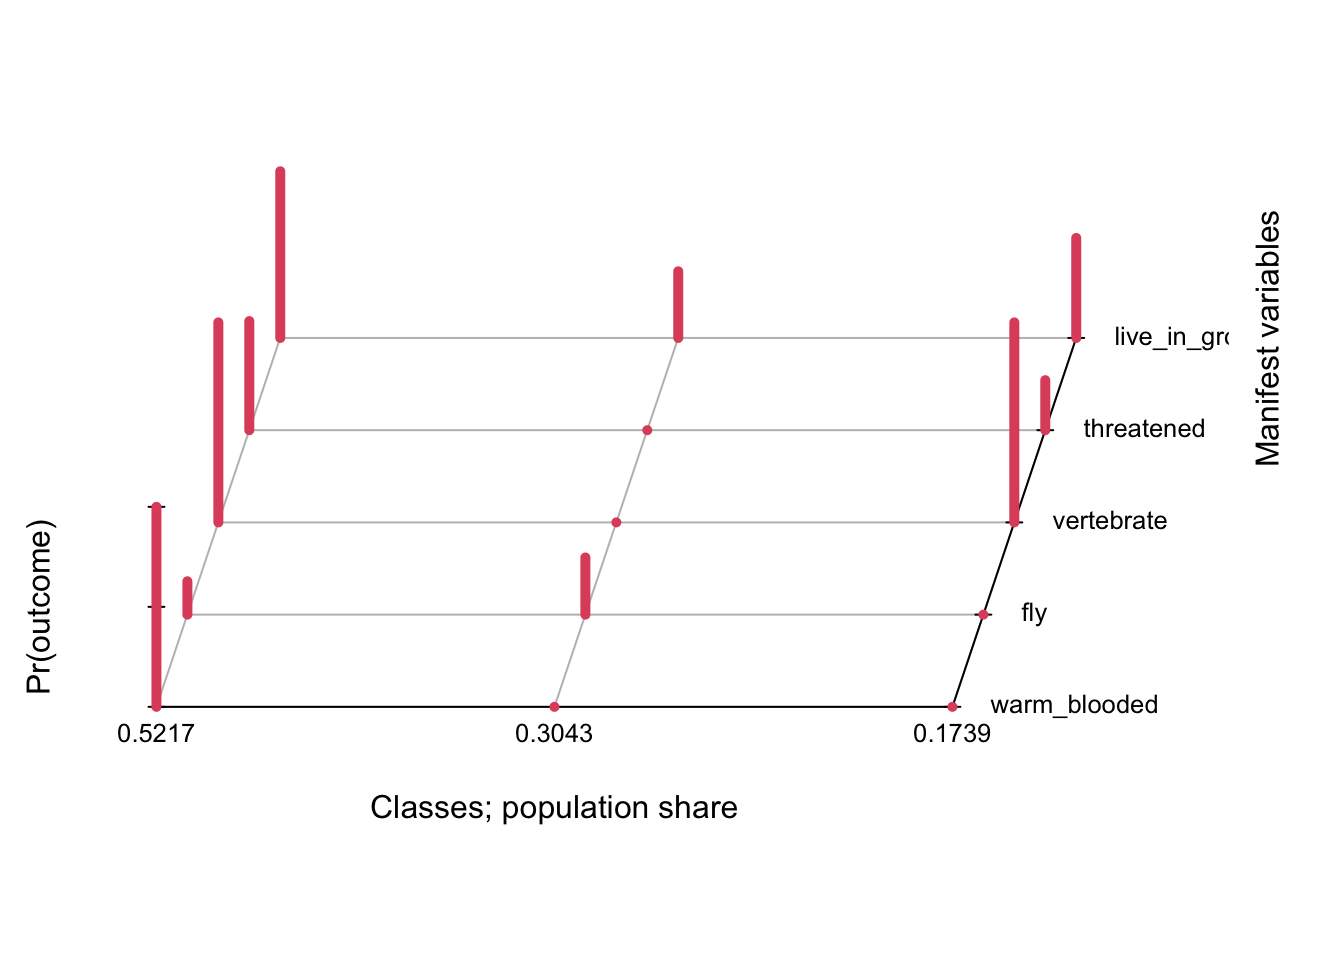
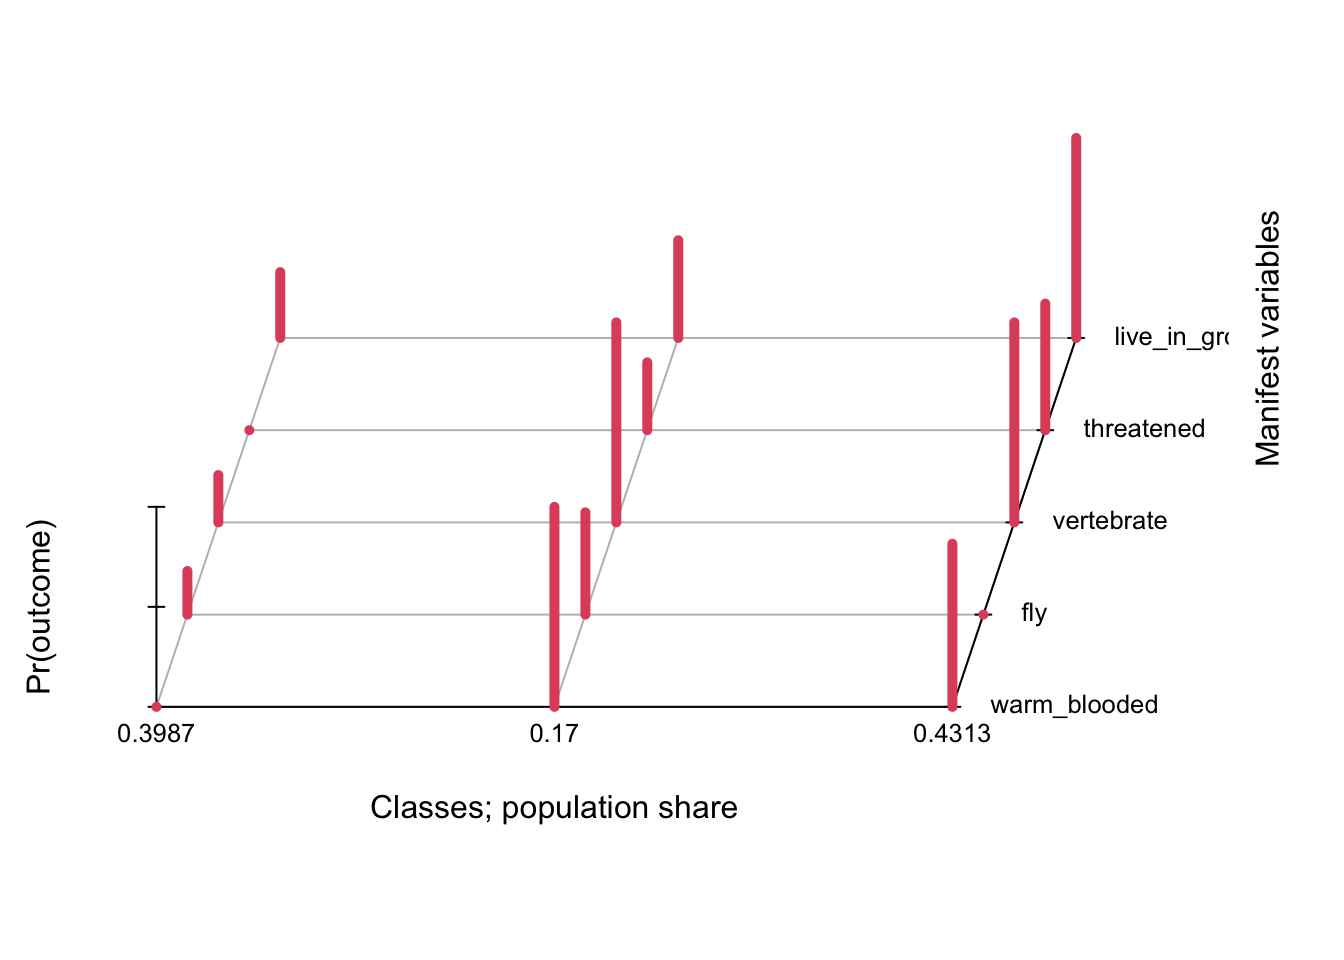
added ideas

diff --git a/docs/app-spielecke.html b/docs/app-spielecke.html
@@ -657,8 +657,7 @@ div.csl-indent {
         <nav id="TOC" role="doc-toc" class="toc-active"><h2 id="toc-title">Inhaltsverzeichnis</h2>
    
   <ul>
-<li><a href="#discrete-time-survival-analysis-in-r" id="toc-discrete-time-survival-analysis-in-r" class="nav-link active" data-scroll-target="#discrete-time-survival-analysis-in-r">Discrete-Time Survival Analysis in R</a></li>
-  <li><a href="#latent-class-analysis-using-r" id="toc-latent-class-analysis-using-r" class="nav-link" data-scroll-target="#latent-class-analysis-using-r">Latent Class Analysis Using R</a></li>
+<li><a href="#latent-class-analysis-using-r" id="toc-latent-class-analysis-using-r" class="nav-link active" data-scroll-target="#latent-class-analysis-using-r">Latent Class Analysis Using R</a></li>
   <li><a href="#structural-equation-modeling" id="toc-structural-equation-modeling" class="nav-link" data-scroll-target="#structural-equation-modeling">Structural Equation Modeling</a></li>
   <li><a href="#zitate" id="toc-zitate" class="nav-link" data-scroll-target="#zitate">Zitate</a></li>
   <li><a href="#links" id="toc-links" class="nav-link" data-scroll-target="#links">Links</a></li>
@@ -681,7 +680,7 @@ div.csl-indent {
   </div>
   
 
-</header><p><em>Version vom August 28, 2023 um 18:49:52</em></p>
+</header><p><em>Version vom August 28, 2023 um 20:49:56</em></p>
 <blockquote class="blockquote">
 <p><em>“Denn, um es endlich auf einmal herauszusagen, der Mensch spielt nur, wo er in voller Bedeutung des Worts Mensch ist, und er ist nur da ganz Mensch, wo er spielt.” — Friedrich Schiller</em></p>
 </blockquote>
@@ -692,12 +691,7 @@ div.csl-indent {
 </figure>
 </div>
 <hr>
-<section id="discrete-time-survival-analysis-in-r" class="level3 unnumbered"><h3 class="unnumbered anchored" data-anchor-id="discrete-time-survival-analysis-in-r">Discrete-Time Survival Analysis in R</h3>
-<p><a href="https://rpubs.com/corey_sparks/63112">Event History Analysis - Example 6 - Discrete Time Hazard Model</a></p>
-<p><span class="citation" data-cites="suresh2022survival">Suresh, Severn, und Ghosh (<a href="#ref-suresh2022survival" role="doc-biblioref">2022</a>)</span></p>
-<p><a href="https://bmcmedresmethodol.biomedcentral.com/articles/10.1186/s12874-022-01679-6">Survival prediction models: an introduction to discrete-time modeling</a></p>
-<p><a href="https://www.rensvandeschoot.com/tutorials/discrete-time-survival/">Intro to Discrete-Time Survival Analysis in R</a></p>
-</section><section id="latent-class-analysis-using-r" class="level3 unnumbered"><h3 class="unnumbered anchored" data-anchor-id="latent-class-analysis-using-r">Latent Class Analysis Using R</h3>
+<section id="latent-class-analysis-using-r" class="level3 unnumbered"><h3 class="unnumbered anchored" data-anchor-id="latent-class-analysis-using-r">Latent Class Analysis Using R</h3>
 <p>Wie immer gibt es eine Reihe von Tutorien auf denen dieser Abschnitt aufbaut. Zum einen wirf einfach mal einen Blick in das Tutorium <a href="https://pop.princeton.edu/events/2020/latent-class-analysis-using-r">Latent Class Analysis Using R</a>. Eine leider etwas veraltete Übersicht über mögliche R Pakete liefert <a href="https://maksimrudnev.com/2016/12/28/latent-class-analysis-in-r/">Ways to do Latent Class Analysis in R</a>. Ich habe da immer mal quer geschaut und mich dann für die Pakete hier entschieden. Es gibt sicherlich noch andere Möglichkeiten eine <em>latent class analysis</em> zu rechnen.</p>
 <p>Wenn du mehr über <em>latent class analysis</em> erfahren möchtest, dann kann ich dir nur das <a href="https://www.john-uebersax.com/stat/faq.htm">LCA Frequently Asked Questions (FAQ)</a> empfehlen. Das FAQ ist sehr umfangreich und beschäftigt sich mit allen wichtigen Punkten. Wir wollen uns ja mit dem R Paket <code>poLCA</code> beschäftigen. Hier gibt es zwei Tutorien. Einmal gibt es das Tutorium <a href="https://statistics.ohlsen-web.de/latent-class-analysis-polca/">Example for a latent class analysis with the poLCA-package in R</a> und das Tutroium <a href="https://rpubs.com/eogawac/poLCA">Latent Class Analysis</a>. Und natürlich die Litertur von <span class="citation" data-cites="linzer2011polca">Linzer und Lewis (<a href="#ref-linzer2011polca" role="doc-biblioref">2011</a>)</span> mit der entsprechenden Veröffentlichung <a href="https://www.sscnet.ucla.edu/polisci/faculty/lewis/pdf/poLCA-JSS-final.pdf">poLCA: An R Package for Polytomous Variable Latent Class Analysis</a></p>
 <div class="cell">
@@ -728,40 +722,40 @@ div.csl-indent {
  by outcome variable, for each class (row) 
  
 $warm_blooded
-          Pr(1) Pr(2)
-class 1:      0     1
-class 2:      1     0
-class 3:      1     0
+           Pr(1)  Pr(2)
+class 1:  1.0000 0.0000
+class 2:  0.0000 1.0000
+class 3:  0.1845 0.8155
 
 $fly
            Pr(1)  Pr(2)
-class 1:  0.8333 0.1667
-class 2:  0.7143 0.2857
+class 1:  0.7819 0.2181
+class 2:  0.4885 0.5115
 class 3:  1.0000 0.0000
 
 $vertebrate
-          Pr(1) Pr(2)
-class 1:      0     1
-class 2:      1     0
-class 3:      0     1
+           Pr(1)  Pr(2)
+class 1:  0.7633 0.2367
+class 2:  0.0000 1.0000
+class 3:  0.0000 1.0000
 
 $threatened
            Pr(1)  Pr(2)
-class 1:  0.4545 0.5455
-class 2:  1.0000 0.0000
-class 3:  0.7500 0.2500
+class 1:  1.0000 0.0000
+class 2:  0.6608 0.3392
+class 3:  0.3673 0.6327
 
 $live_in_groups
            Pr(1)  Pr(2)
-class 1:  0.1667 0.8333
-class 2:  0.6667 0.3333
-class 3:  0.5000 0.5000
+class 1:  0.6708 0.3292
+class 2:  0.5115 0.4885
+class 3:  0.0000 1.0000
 
 Estimated class population shares 
- 0.5217 0.3043 0.1739 
+ 0.3987 0.17 0.4313 
  
 Predicted class memberships (by modal posterior prob.) 
- 0.5217 0.3043 0.1739 
+ 0.3913 0.1304 0.4783 
  
 ========================================================= 
 Fit for 3 latent classes: 
@@ -770,12 +764,12 @@ number of observations: 23
 number of fully observed cases: 18 
 number of estimated parameters: 17 
 residual degrees of freedom: 6 
-maximum log-likelihood: -53.16612 
+maximum log-likelihood: -52.68078 
  
-AIC(3): 140.3322
-BIC(3): 159.6356
-G^2(3): 8.447122 (Likelihood ratio/deviance statistic) 
-X^2(3): 9.343593 (Chi-square goodness of fit) 
+AIC(3): 139.3616
+BIC(3): 158.665
+G^2(3): 7.830161 (Likelihood ratio/deviance statistic) 
+X^2(3): 6.77568 (Chi-square goodness of fit) 
  </code></pre>
 </div>
 <div class="cell-output cell-output-stdout">
@@ -783,40 +777,40 @@ X^2(3): 9.343593 (Chi-square goodness of fit)
  by outcome variable, for each class (row) 
  
 $warm_blooded
-          Pr(1) Pr(2)
-class 1:      0     1
-class 2:      1     0
-class 3:      1     0
+           Pr(1)  Pr(2)
+class 1:  1.0000 0.0000
+class 2:  0.0000 1.0000
+class 3:  0.1845 0.8155
 
 $fly
            Pr(1)  Pr(2)
-class 1:  0.8333 0.1667
-class 2:  0.7143 0.2857
+class 1:  0.7819 0.2181
+class 2:  0.4885 0.5115
 class 3:  1.0000 0.0000
 
 $vertebrate
-          Pr(1) Pr(2)
-class 1:      0     1
-class 2:      1     0
-class 3:      0     1
+           Pr(1)  Pr(2)
+class 1:  0.7633 0.2367
+class 2:  0.0000 1.0000
+class 3:  0.0000 1.0000
 
 $threatened
            Pr(1)  Pr(2)
-class 1:  0.4545 0.5455
-class 2:  1.0000 0.0000
-class 3:  0.7500 0.2500
+class 1:  1.0000 0.0000
+class 2:  0.6608 0.3392
+class 3:  0.3673 0.6327
 
 $live_in_groups
            Pr(1)  Pr(2)
-class 1:  0.1667 0.8333
-class 2:  0.6667 0.3333
-class 3:  0.5000 0.5000
+class 1:  0.6708 0.3292
+class 2:  0.5115 0.4885
+class 3:  0.0000 1.0000
 
 Estimated class population shares 
- 0.5217 0.3043 0.1739 
+ 0.3987 0.17 0.4313 
  
 Predicted class memberships (by modal posterior prob.) 
- 0.5217 0.3043 0.1739 
+ 0.3913 0.1304 0.4783 
  
 ========================================================= 
 Fit for 3 latent classes: 
@@ -825,12 +819,12 @@ number of observations: 23
 number of fully observed cases: 18 
 number of estimated parameters: 17 
 residual degrees of freedom: 6 
-maximum log-likelihood: -53.16612 
+maximum log-likelihood: -52.68078 
  
-AIC(3): 140.3322
-BIC(3): 159.6356
-G^2(3): 8.447122 (Likelihood ratio/deviance statistic) 
-X^2(3): 9.343593 (Chi-square goodness of fit) 
+AIC(3): 139.3616
+BIC(3): 158.665
+G^2(3): 7.830161 (Likelihood ratio/deviance statistic) 
+X^2(3): 6.77568 (Chi-square goodness of fit) 
  </code></pre>
 </div>
 </div>
@@ -972,9 +966,6 @@ Linzer, Drew A, und Jeffrey B Lewis. 2011. <span>„poLCA: An R package for poly
 </div>
 <div id="ref-liu2022real" class="csl-entry" role="listitem">
 Liu, Fang, und Demosthenes Panagiotakos. 2022. <span>„Real-world data: a brief review of the methods, applications, challenges and opportunities“</span>. <em>BMC Medical Research Methodology</em> 22 (1): 287.
-</div>
-<div id="ref-suresh2022survival" class="csl-entry" role="listitem">
-Suresh, Krithika, Cameron Severn, und Debashis Ghosh. 2022. <span>„Survival prediction models: an introduction to discrete-time modeling“</span>. <em>BMC medical research methodology</em> 22 (1): 207.
 </div>
 <div id="ref-van2023best" class="csl-entry" role="listitem">
 Van Lissa, Caspar J, Mauricio Garnier Villarreal, und Daniel Anadria. 2023. <span>„Best Practices in Latent Class Analysis using the Open-Source R-Package tidySEM“</span>.

diff --git a/docs/stat-modeling-survival.html b/docs/stat-modeling-survival.html
@@ -678,6 +678,7 @@ div.csl-indent {
 </li>
   <li><a href="#cox-proportional-hazards-modell" id="toc-cox-proportional-hazards-modell" class="nav-link" data-scroll-target="#cox-proportional-hazards-modell"><span class="header-section-number">50.5</span> Cox Proportional-Hazards Modell</a></li>
   <li><a href="#logistische-regression" id="toc-logistische-regression" class="nav-link" data-scroll-target="#logistische-regression"><span class="header-section-number">50.6</span> Logistische Regression</a></li>
+  <li><a href="#discrete-time-survival-analysis" id="toc-discrete-time-survival-analysis" class="nav-link" data-scroll-target="#discrete-time-survival-analysis"><span class="header-section-number">50.7</span> Discrete Time Survival Analysis</a></li>
   <li><a href="#referenzen" id="toc-referenzen" class="nav-link" data-scroll-target="#referenzen">Referenzen</a></li>
   </ul></nav>
     </div>
@@ -696,7 +697,7 @@ div.csl-indent {
   </div>
   
 
-</header><p><em>Version vom August 28, 2023 um 19:51:37</em></p>
+</header><p><em>Version vom August 29, 2023 um 08:08:23</em></p>
 <p>In diesem Kapitel wollen wir uns nochmal mit der Zeit beschäftigen. Wir haben hier aber keine zeitlichen Messwiederholungen an dem gleichen Subjekt, Tier oder Pflanze vorliegen sondern wir schauen uns an, wie lange es dauert bis ein Ereignis eintritt. Deshalb nennen wir diese Analysen algemein Ereigniszeitanalysen. Häufig schauen wir uns aber die zeit an, die es braucht, bis das Ereignis “tot” für eine Beobachtung eintritt. Daher heißt das Kapitel auch Überlebenszeitanalysen (eng. <em>survival analysis</em>).</p>
 <p>Überlebenszeitanalysen sind in den Humanwissenschaften und inbesondere in der Onkologie <em>das</em> Thema schlechthin. Wir beantworten hier die Fragen nach <em>3 Monatsmortalität</em> und wollen wissen, wie viele patienten nach einer Behandlung mit einem Krebsmedikament nach drei Monaten noch leben. Du kanst dir vorstellen, dass es hier eine Menge an Annahmen und Modellen gibt. Wir wollen uns hier in dem Kapitel die Grundlagen anschauen. Da vieles in der Wissenschaft meist in englischer Sprache abläuft, kann ich hier sehr den das Buch von <span class="citation" data-cites="david2012survival">David und Mitchel (<a href="#ref-david2012survival" role="doc-biblioref">2012</a>)</span> empfehlen. Insbesondere die Einführungskapitel sind sehr gut geschrieben. Diese Detailtiefe wie bei <span class="citation" data-cites="david2012survival">David und Mitchel (<a href="#ref-david2012survival" role="doc-biblioref">2012</a>)</span> werde ich in diesem Abschnitt nicht erreichen. In den Agrarwissenschaften ist alles ein wenig anders als in den Humanwissenschaften.</p>
 <p>Wie bereits erwähnt, konzentriert sich die Überlebensanalyse auf die erwartete Zeitdauer bis zum Auftreten eines Ereignisses von Interesse. Das Ereignis von Interesse ist dann meist ein Rückfall (eng. <em>relapse</em>) oder eben tot (eng. <em>death</em>). Es kann jedoch sein, dass das Ereignis bei einigen Personen innerhalb des Untersuchungszeitraums nicht beobachtet wird, was zu sogenannten zensierten Beobachtungen führt. Die Zensierung kann auf folgende Weise erfolgen:</p>
@@ -1612,12 +1613,40 @@ ph ecog     |       1.34 |     0.41 | [0.74, 2.47] |  0.96 | 0.335</code></pre>
 </div>
 </div>
 <p>Was sind die Unterschiede? Eine logistische Regression liefert Odds Ratios, also ein Chancenverhältnis. Aus einer Ereigniszeitanalyse erhalten wir Hazard Ratios, was eher ein Risk Ratio ist und somit eine Wahrscheinlichkeit. Deshalb lassen sich die Ergebnisse an der Stelle nur bedingt vergleichen. Im Falle der logistischen Regression fallen auch Zensierungen weg. Wir betrachten eben nur <em>einen einzigen</em> Zeitpunkt. In der Ereigniszeitanalyse betrachten wir hingegen den gesamten Verlauf. Wir immer musst du überlegen, was ist deine Fragestellung und was möchtest du berichten. Wenn es dir wirklich nur um den Zeitpunkt <span class="math inline">\(t\)</span> geht und dir die Progression dahin oder danach egal ist, dann mag die logistische Regression auch eine Möglichkeit der Auswertung sein.</p>
-</section><section id="referenzen" class="level2 unnumbered"><h2 class="unnumbered anchored" data-anchor-id="referenzen">Referenzen</h2>
+</section><section id="discrete-time-survival-analysis" class="level2" data-number="50.7"><h2 data-number="50.7" class="anchored" data-anchor-id="discrete-time-survival-analysis">
+<span class="header-section-number">50.7</span> Discrete Time Survival Analysis</h2>
+<div class="callout callout-style-default callout-caution callout-titled">
+<div class="callout-header d-flex align-content-center">
+<div class="callout-icon-container">
+<i class="callout-icon"></i>
+</div>
+<div class="callout-title-container flex-fill">
+Stand des Abschnitts im September 2023
+</div>
+</div>
+<div class="callout-body-container callout-body">
+<div class="quarto-figure quarto-figure-center">
+<figure class="figure"><p><img src="images/caution.png" class="img-fluid figure-img" style="width:50.0%"></p>
+</figure>
+</div>
+<p>Das Thema <em>discrete time survival analysis</em> ist erstmal auf Stand-By gesetzt, bis mir klar ist, wohin ich mit dem Abschnitt zum Ende hin will. Aktuell fehlt mir ein agarwissenschaftlicher Datensatz zum Themenkomplex und so kommen hier erstmal die Links zu Tutorien, die ich später nochmal nutzen möchte</p>
+</div>
+</div>
+<p>Einmal kurz die Idee der <em>discrete time survival analysis</em> erläutert. Wir schauen uns nicht an, wie lange es dauert bis ein Ereignis eintritt, sondern ob ein Ereignis in einem bestimmten Intervall auftritt. Die Frage ist also, ist der Krebs im <span class="math inline">\(i\)</span>-ten Jahr aufgetreten? Dafür brauchen wir dann auch eine spezielle Form der Datendarstellung, nämlich <em>person period data</em>, die wir uns dann aber meistens aus normalen Überlebenszeitdaten bauen können. Da gibt es dann eine Reihe von Funktion in R für die Umwandlung zu <em>person period data</em>.</p>
+<p>Einmal bitte auch <span class="citation" data-cites="suresh2022survival">Suresh, Severn, und Ghosh (<a href="#ref-suresh2022survival" role="doc-biblioref">2022</a>)</span> anschauen mit der Veröffentlichung <a href="https://bmcmedresmethodol.biomedcentral.com/articles/10.1186/s12874-022-01679-6">Survival prediction models: an introduction to discrete-time modeling</a>.</p>
+<p>Dann gibt es noch zwei Tutorien, die ich dann nochmal aufarbeiten muss.</p>
+<ul>
+<li><a href="https://rpubs.com/corey_sparks/63112">Event History Analysis - Example 6 - Discrete Time Hazard Model</a></li>
+<li><a href="https://www.rensvandeschoot.com/tutorials/discrete-time-survival/">Intro to Discrete-Time Survival Analysis in R</a></li>
+</ul></section><section id="referenzen" class="level2 unnumbered"><h2 class="unnumbered anchored" data-anchor-id="referenzen">Referenzen</h2>
 
 
 <div id="refs" class="references csl-bib-body hanging-indent" role="list">
 <div id="ref-david2012survival" class="csl-entry" role="listitem">
 David, G Kleinbaum, und Klein Mitchel. 2012. <em>Survival analysis: a Self-Learning text</em>. Spinger.
+</div>
+<div id="ref-suresh2022survival" class="csl-entry" role="listitem">
+Suresh, Krithika, Cameron Severn, und Debashis Ghosh. 2022. <span>„Survival prediction models: an introduction to discrete-time modeling“</span>. <em>BMC medical research methodology</em> 22 (1): 207.
 </div>
 </div>
 </section></main><!-- /main --><script id="quarto-html-after-body" type="application/javascript">
